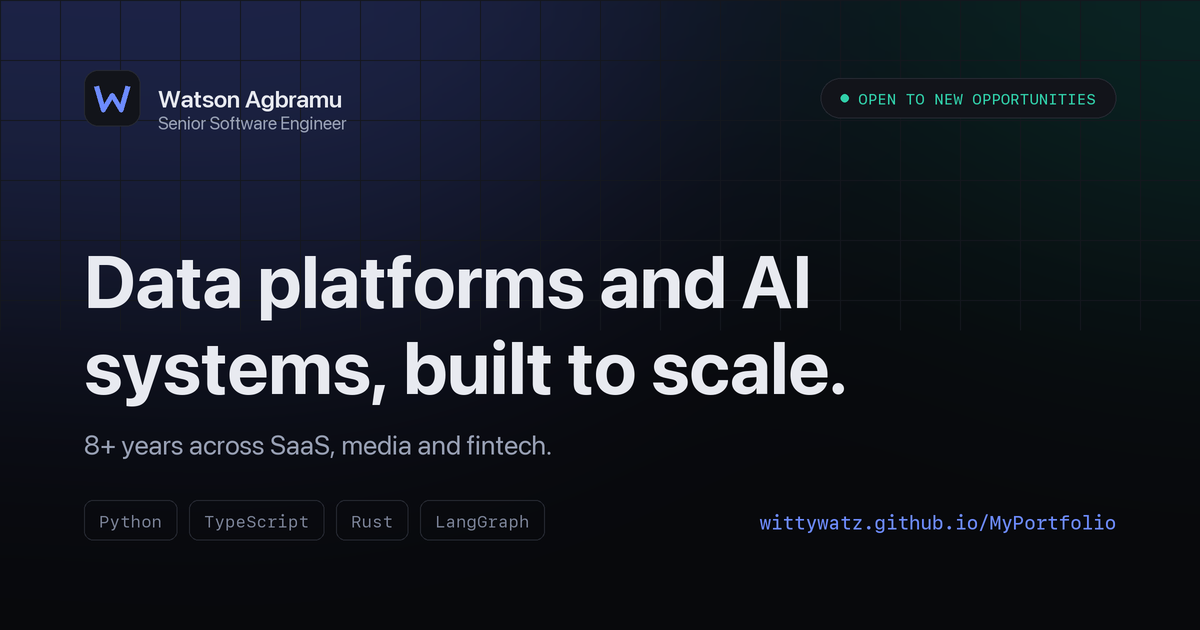
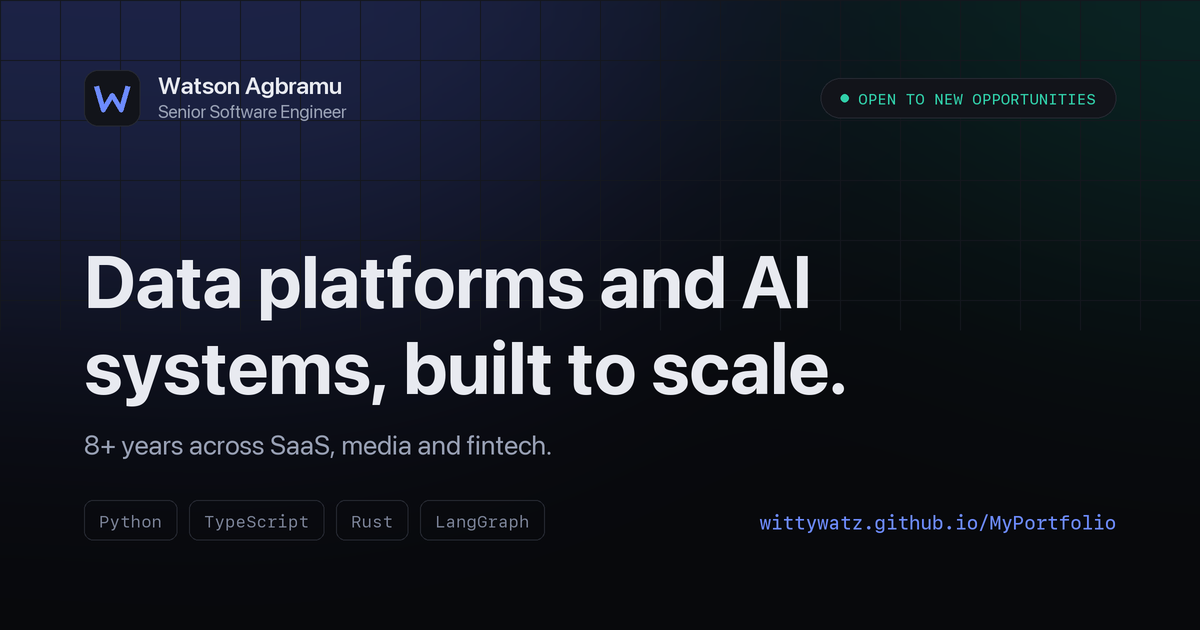
Centre the share card wordmark against the monogram
The name and title were drawn from the top, so the two-line block sat lower
than the 56px mark beside it. Both lines now use the middle anchor against the
monogram's own centre line.

Changed region(s): [[0.1233, 0.1206, 0.3083, 0.2111]]

diff --git a/tools/make-share-card.py b/tools/make-share-card.py
@@ -65,17 +65,23 @@ def main(out_path):
     w_pts = [((M + x) * SCALE, (70 + y) * SCALE) for x, y in w_pts]
     d.line(w_pts, fill=ACCENT, width=5 * SCALE, joint="curve")
 
+    # Both lines are centred on the monogram's own centre line using the middle
+    # anchor. Drawing from the top instead left the text block sitting lower
+    # than the mark, since its two lines are taller than the 56px square.
+    icon_cy = 98
     d.text(
-        ((M + 74) * SCALE, 84 * SCALE),
+        ((M + 74) * SCALE, (icon_cy - 13) * SCALE),
         "Watson Agbramu",
         font=font(SANS, 24, "Semibold"),
         fill=TEXT,
+        anchor="lm",
     )
     d.text(
-        ((M + 74) * SCALE, 112 * SCALE),
+        ((M + 74) * SCALE, (icon_cy + 13) * SCALE),
         "Senior Software Engineer",
         font=font(SANS, 18, "Regular"),
         fill=MUTED,
+        anchor="lm",
     )
 
     # Availability pill.
